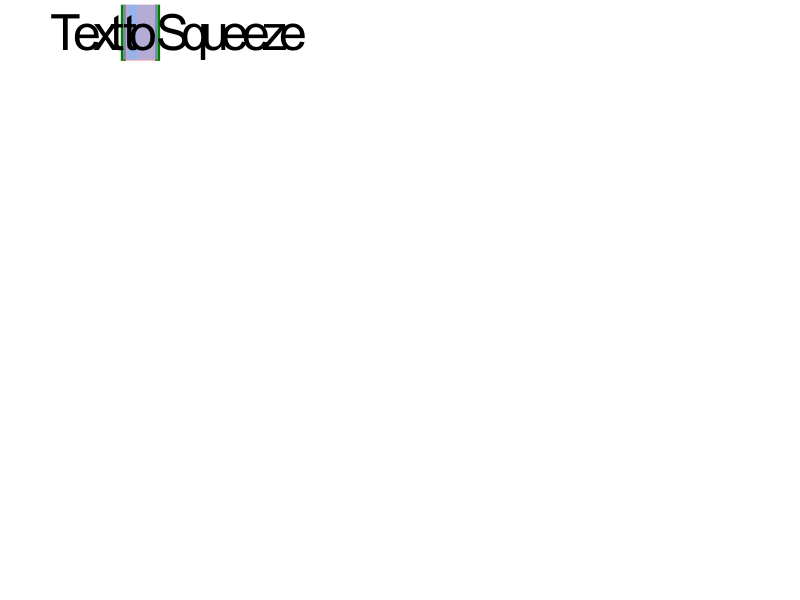
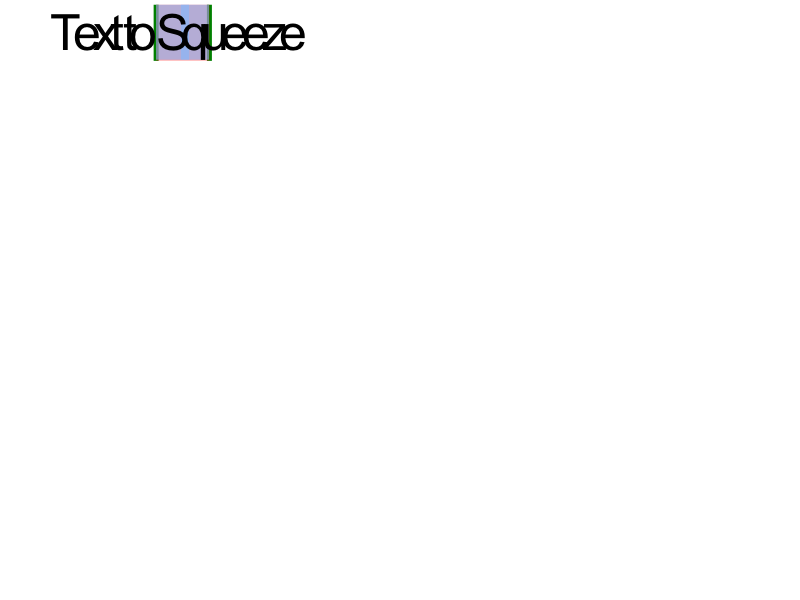
onclick is not reliable for transformed SVG elements https://bugs.webkit.org/show_bug.cgi?id=34714
Patch by Hans Muller <hmuller@adobe.com> on 2012-02-24
Reviewed by Dirk Schulze.

Source/WebCore:

Use FloatPoints in RenderSVGRoot::nodeAtPoint() when converting the incoming
point to local coordinates.

Test: svg/hittest/svg-small-viewbox.xhtml

* rendering/svg/RenderSVGRoot.cpp:
(WebCore::RenderSVGRoot::nodeAtPoint):

LayoutTests:

New svg-small-viewbox test checks that elementFromPoint() works correctly with SVG
elements defined within a 1x1 viewbox.

Revised select-textLength-spacing-squeeze-2.svg to avoid a corner-case,
removed unnecessary -1 adjustment of absEndPos.x from SelectionTestCase.js.

* platform/chromium/test_expectations.txt:
* platform/mac/svg/text/select-textLength-spacing-squeeze-2-expected.png:
* platform/mac/svg/text/select-textLength-spacing-squeeze-2-expected.txt:
* svg/hittest/svg-small-viewbox-expected.txt: Added.
* svg/hittest/svg-small-viewbox.xhtml: Added.
* svg/text/resources/SelectionTestCase.js:
(selectRange):
* svg/text/select-textLength-spacing-squeeze-2.svg:

git-svn-id: http://svn.webkit.org/repository/webkit/trunk/LayoutTests@108857 268f45cc-cd09-0410-ab3c-d52691b4dbfc

Changed region(s): [[0.125, 0.0, 0.2812, 0.12]]

diff --git a/svg/text/resources/SelectionTestCase.js b/svg/text/resources/SelectionTestCase.js
@@ -66,7 +66,6 @@ function selectRange(id, start, end, expectedText) {
 
         var absStartPos = toAbsoluteCoordinates(startPos, element);
         var absEndPos = toAbsoluteCoordinates(endPos, element);
-        absEndPos.x -= 1;
 
         // Move to selection origin and hold down mouse
         eventSender.mouseMoveTo(absStartPos.x, absStartPos.y);
